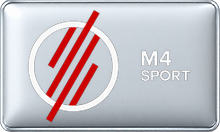
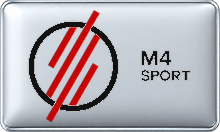
Fix Virgin Radio and M4 Sport white contrast

diff --git a/reports/black-white-qc-2026-10-09/batch-002/checkpoint.md b/reports/black-white-qc-2026-10-09/batch-002/checkpoint.md
@@ -1,0 +1,10 @@
+# BLACK/WHITE QC batch 002
+
+- Baseline branch HEAD before batch: `54f576779f843f25c50f83dc0a220b5176020461`.
+- Two reviewed BLACK/WHITE pairs; repaired two WHITE PNGs.
+- Virgin Radio: only the isolated RADIO glyph group below the red star was darkened; the white Virgin script inside the red emblem is unchanged.
+- M4 Sport: the bright monochrome ring and wordmark were darkened; red slash pixels remain unchanged.
+- Both source PNGs, both BLACK variants, and the immutable WHITE MASTER remained unchanged.
+- Both repaired outputs decode as 220×132 RGBA. Visual comparison is attached.
+- Last processed identities: `0.8w/digi/1_0_2_DA2_2_1_E080000_0_0_0` and `0.8w/digi-hu/1_0_1_4CE_4_1_E080000_0_0_0`.
+- Next: continue first-page review after service reference `1_0_1_4CE_4_1_E080000_0_0_0`; do not infer PASS for unreviewed variants.
